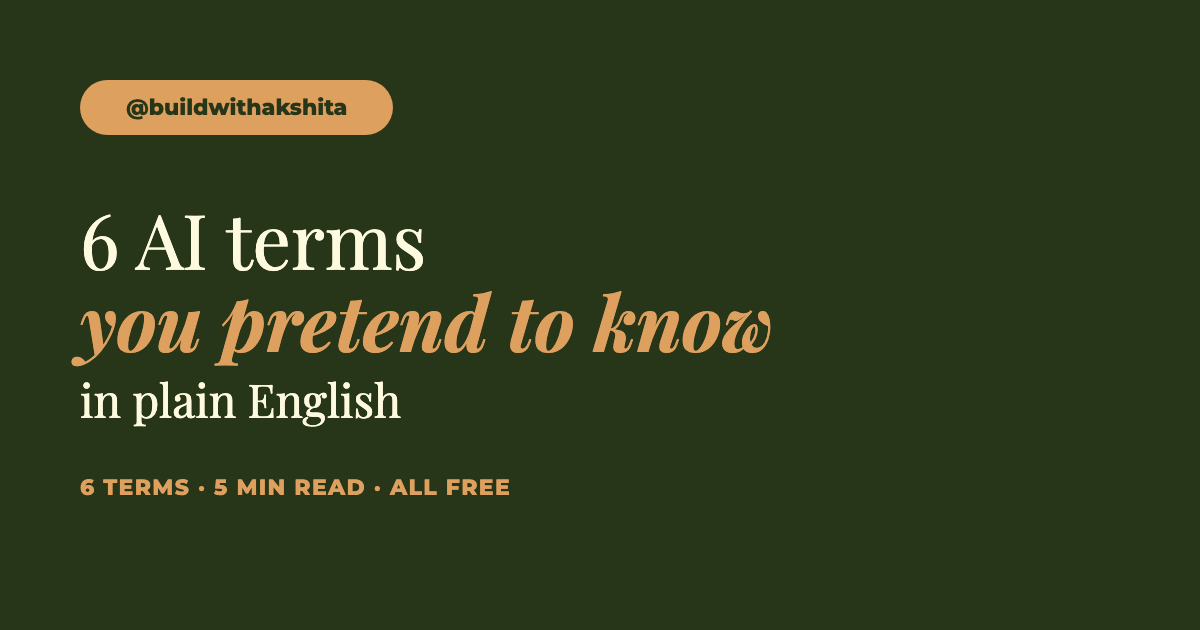
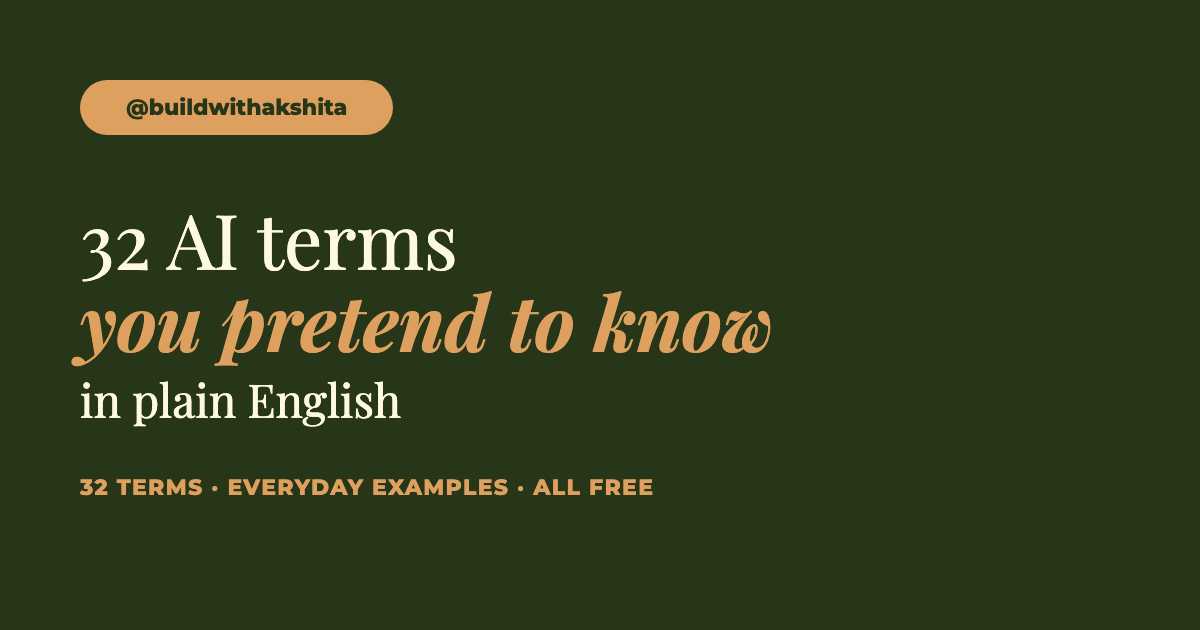
Terms page: expand into a 32-term glossary in 4 sections

Changed region(s): [[0.0617, 0.3317, 0.4008, 0.4524], [0.0617, 0.754, 0.555, 0.7841]]

diff --git a/terms/index.html b/terms/index.html
@@ -3,13 +3,13 @@
 <head>
 <meta charset="utf-8">
 <meta name="viewport" content="width=device-width, initial-scale=1, viewport-fit=cover">
-<title>6 AI terms in plain English — Resources · @buildwithakshita</title>
-<meta name="description" content="Model, parameters, training, inference, embeddings and overfitting, explained in plain English with the developer version of each.">
+<title>AI terms in plain English — Resources · @buildwithakshita</title>
+<meta name="description" content="32 AI terms explained in plain English, from model and training to tokens, RAG, agents and MCP, each with an everyday example.">
 <link rel="canonical" href="https://buildwithakshita.github.io/ml-resources/terms/">
 <meta property="og:type" content="website">
 <meta property="og:url" content="https://buildwithakshita.github.io/ml-resources/terms/">
-<meta property="og:title" content="6 AI terms in plain English">
-<meta property="og:description" content="Model, parameters, training, inference, embeddings and overfitting, explained in plain English with the developer version of each.">
+<meta property="og:title" content="AI terms in plain English">
+<meta property="og:description" content="32 AI terms explained in plain English, from model and training to tokens, RAG, agents and MCP, each with an everyday example.">
 <meta property="og:image" content="https://buildwithakshita.github.io/ml-resources/terms/preview.png">
 <meta property="og:image:width" content="1200">
 <meta property="og:image:height" content="630">
@@ -147,6 +147,10 @@ footer .gh a { color: var(--cream); }
 .vs .r b { color: var(--tan); }
 @media (max-width: 640px) { .vs { grid-template-columns: minmax(0,1fr); } }
 .t-text .ex { margin-top: 10px; padding: 10px 12px; background: var(--cream); border-left: 3px solid var(--tan); border-radius: 0 8px 8px 0; font-size: 13.5px; }
+.jump { position: sticky; top: 0; z-index: 5; display: flex; gap: 8px; overflow-x: auto; padding: 14px 0; margin: 0 0 -24px; background: var(--cream); border-bottom: 1px solid var(--line); scrollbar-width: none; }
+.jump a { flex: none; font-size: 13px; font-weight: 600; text-decoration: none; padding: 7px 14px; border-radius: 999px; border: 1.5px solid var(--forest); }
+.jump a:hover { background: var(--forest); color: var(--cream); }
+[id] { scroll-margin-top: 70px; }
 .t-text .ex b { color: var(--olive); font-size: 11px; letter-spacing: .1em; text-transform: uppercase; display: block; margin-bottom: 2px; }
 </style>
 </head>
@@ -157,17 +161,30 @@ footer .gh a { color: var(--cream); }
       <a class="handle" href="https://www.instagram.com/buildwithakshita/" target="_blank" rel="noopener">@buildwithakshita</a>
       <a class="handle alt" href="https://github.com/buildwithakshita" target="_blank" rel="noopener"><svg width="16" height="16" viewBox="0 0 16 16" aria-hidden="true" fill="currentColor"><path d="M8 0C3.58 0 0 3.58 0 8c0 3.54 2.29 6.53 5.47 7.59.4.07.55-.17.55-.38 0-.19-.01-.82-.01-1.49-2.01.37-2.53-.49-2.69-.94-.09-.23-.48-.94-.82-1.13-.28-.15-.68-.52-.01-.53.63-.01 1.08.58 1.23.82.72 1.21 1.87.87 2.33.66.07-.52.28-.87.51-1.07-1.78-.2-3.64-.89-3.64-3.95 0-.87.31-1.59.82-2.15-.08-.2-.36-1.02.08-2.12 0 0 .67-.21 2.2.82.64-.18 1.32-.27 2-.27.68 0 1.36.09 2 .27 1.53-1.04 2.2-.82 2.2-.82.44 1.1.16 1.92.08 2.12.51.56.82 1.27.82 2.15 0 3.07-1.87 3.75-3.65 3.95.29.25.54.73.54 1.48 0 1.07-.01 1.93-.01 2.2 0 .21.15.46.55.38A8.013 8.013 0 0016 8c0-4.42-3.58-8-8-8z"/></svg> GitHub</a>
     </div>
-    <h1>6 AI terms you<br>pretend to <em>know</em></h1>
-    <p class="lede">The plain-English version of every term from the carousel: Model, Parameters, Training, Inference, Embeddings and Overfitting, each with the developer version and the trap to avoid.</p>
-    <div class="legend"><span>6 terms</span><span>8 min read</span><span>All free</span></div>
+    <h1>AI terms you<br>pretend to <em>know</em></h1>
+    <p class="lede">The plain-English guide to every term from the carousel, plus 26 more you'll hear everywhere. Each one comes with an everyday example, the developer version and the trap to avoid.</p>
+    <div class="legend"><span>32 terms</span><span>4 sections</span><span>All free</span></div>
     <a class="back" href="https://buildwithakshita.github.io/ml-resources/">← All 30 Days to MLE resources</a>
   </div>
 </header>
 <main><div class="wrap">
-<section class="res"><div class="num">01</div><div><div class="kicker">The cheat sheet</div><h2>Six terms, <em>plain English</em></h2><p class="who">What it is, the developer version, and the trap</p><p class="why">These six words show up in every AI conversation. Learn them once and the rest gets much easier.</p><ul class="terms"><li><div class="t-text"><h3>Model<small>the thing that predicts</small></h3><p>A model is a math function that learned its rules from examples instead of someone writing them by hand. You give it an input (an email, a photo, a sentence) and it gives back a prediction (spam or not, cat or dog, the next word). ChatGPT, your spam filter and Netflix recommendations are all models.</p><p class="ex"><b>Everyday example:</b> Your email's spam filter was never told the rule 'free money = spam'. It saw millions of emails labelled spam or not, and worked the patterns out itself.</p><span class="dev">Dev: A function whose logic was learned, not written</span><p class="watch"><b>Watch out:</b> It only knows the patterns in the data it was trained on. Ask about something it never saw and it will still confidently guess.</p></div><div class="t-math"><div class="lbl">In one line</div><div class="eq"><i>ŷ</i> = <i>f</i>(<i>x</i>; <span class="hl">θ</span>)</div></div></li><li><div class="t-text"><h3>Parameters<small>the knobs</small></h3><p>Parameters are the internal numbers inside a model that decide what it outputs. Training is just the process of setting them. A tiny model has a handful; large language models have billions. They're also called weights.</p><p class="ex"><b>Everyday example:</b> Think of a mixing desk with billions of sliders. Each slider barely matters alone, but together their positions decide every answer the model gives.</p><span class="dev">Dev: Config values the program tunes by itself</span><p class="watch"><b>Watch out:</b> More parameters isn't automatically smarter. A smaller model trained on better data often beats a bigger one trained on worse data.</p></div><div class="t-math"><div class="lbl">What they are</div><div class="eq"><span class="hl">θ</span> = [<i>w</i><sub>1</sub>, <i>w</i><sub>2</sub>, …, <i>w</i><sub>n</sub>]</div></div></li><li><div class="t-text"><h3>Training<small>learning from mistakes</small></h3><p>Training is how a model learns. Show it an example, compare its guess to the right answer, measure how wrong it was (the loss), then nudge every parameter a tiny bit in the direction that makes it less wrong. Repeat that millions of times and the guesses get good.</p><p class="ex"><b>Everyday example:</b> Like learning to throw darts: throw, see how far off you landed, adjust your aim a little, throw again. Thousands of throws later you're hitting the board.</p><span class="dev">Dev: An optimisation loop over your dataset</span><p class="watch"><b>Watch out:</b> Garbage in, garbage out. If the training data is biased, messy or wrong, the model learns those mistakes too.</p></div><div class="t-math"><div class="lbl">The loop</div><div class="code">for x, y in data:
+<nav class="jump"><a href="#carousel">From the carousel</a><a href="#learn">How models learn</a><a href="#llms">How LLMs work</a><a href="#build">Building with AI</a><a href="#deeper">Go deeper</a></nav><div id="carousel"></div><section class="res"><div class="num">01</div><div><div class="kicker">From the carousel · 6 terms</div><h2>The six, <em>plain English</em></h2><p class="who">What it is, an everyday example, the developer version, and the trap</p><p class="why">Start here. These six show up in every AI conversation.</p><ul class="terms"><li><div class="t-text"><h3>Model<small>the thing that predicts</small></h3><p>A model is a math function that learned its rules from examples instead of someone writing them by hand. You give it an input (an email, a photo, a sentence) and it gives back a prediction (spam or not, cat or dog, the next word). ChatGPT, your spam filter and Netflix recommendations are all models.</p><p class="ex"><b>Everyday example:</b> Your email's spam filter was never told the rule 'free money = spam'. It saw millions of emails labelled spam or not, and worked the patterns out itself.</p><span class="dev">Dev: A function whose logic was learned, not written</span><p class="watch"><b>Watch out:</b> It only knows the patterns in the data it was trained on. Ask about something it never saw and it will still confidently guess.</p></div><div class="t-math"><div class="lbl">In one line</div><div class="eq"><i>ŷ</i> = <i>f</i>(<i>x</i>; <span class="hl">θ</span>)</div></div></li><li><div class="t-text"><h3>Parameters<small>the knobs</small></h3><p>Parameters are the internal numbers inside a model that decide what it outputs. Training is just the process of setting them. A tiny model has a handful; large language models have billions. They're also called weights.</p><p class="ex"><b>Everyday example:</b> Think of a mixing desk with billions of sliders. Each slider barely matters alone, but together their positions decide every answer the model gives.</p><span class="dev">Dev: Config values the program tunes by itself</span><p class="watch"><b>Watch out:</b> More parameters isn't automatically smarter. A smaller model trained on better data often beats a bigger one trained on worse data.</p></div><div class="t-math"><div class="lbl">What they are</div><div class="eq"><span class="hl">θ</span> = [<i>w</i><sub>1</sub>, <i>w</i><sub>2</sub>, …, <i>w</i><sub>n</sub>]</div></div></li><li><div class="t-text"><h3>Training<small>learning from mistakes</small></h3><p>Training is how a model learns. Show it an example, compare its guess to the right answer, measure how wrong it was (the loss), then nudge every parameter a tiny bit in the direction that makes it less wrong. Repeat that millions of times and the guesses get good.</p><p class="ex"><b>Everyday example:</b> Like learning to throw darts: throw, see how far off you landed, adjust your aim a little, throw again. Thousands of throws later you're hitting the board.</p><span class="dev">Dev: An optimisation loop over your dataset</span><p class="watch"><b>Watch out:</b> Garbage in, garbage out. If the training data is biased, messy or wrong, the model learns those mistakes too.</p></div><div class="t-math"><div class="lbl">The loop</div><div class="code">for x, y in data:
     loss = (model(x) - y) ** 2
     θ -= lr * grad(loss, θ)</div></div></li><li><div class="t-text"><h3>Inference<small>using it</small></h3><p>Inference is running a trained model on new inputs to get an answer. Every time you send ChatGPT a message, that's inference. The parameters are frozen, so the model isn't learning anything from you in that moment.</p><p class="ex"><b>Everyday example:</b> Training is studying for the exam. Inference is sitting the exam: you use what you learned, but you're not learning anything new while you write.</p><span class="dev">Dev: Calling the function in production</span><p class="watch"><b>Watch out:</b> Inference is far cheaper than training, but it isn't free. Every answer still costs compute, which is why AI products have usage limits.</p></div><div class="t-math"><div class="lbl">In code</div><div class="code">answer = model(new_input)
-# θ stays frozen</div></div></li><li><div class="t-text"><h3>Embeddings<small>meaning as numbers</small></h3><p>An embedding turns something (a word, a sentence, an image, a song, a user) into a list of numbers, so a computer can compare meaning with math. Things with similar meaning end up with similar numbers, close together in that space.</p><p class="ex"><b>Everyday example:</b> On Spotify, songs you like sit near each other on a giant invisible map. 'Songs like this' just means 'the nearest points on the map'.</p><span class="dev">Dev: A vector you compare with cosine similarity</span><p class="watch"><b>Watch out:</b> Close means similar to the model, not necessarily true or correct. 'Doctor' and 'nurse' can sit close because they appear in similar sentences, biases included.</p></div><div class="t-math"><div class="lbl">Similarity</div><div class="eq">sim(<i>a</i>, <i>b</i>) = <span class="frac"><span><i>a</i> · <i>b</i></span><span>‖<i>a</i>‖ ‖<i>b</i>‖</span></span></div></div></li><li><div class="t-text"><h3>Overfitting<small>memorising, not learning</small></h3><p>Overfitting is when a model memorises its training data, including the noise and flukes, instead of learning the general pattern. It looks brilliant on the examples it has seen and falls apart on anything new.</p><p class="ex"><b>Everyday example:</b> A student who memorised last year's answer key aces the practice test, then fails the real exam the moment the questions change.</p><span class="dev">Dev: Tests that only pass on your fixtures</span><p class="watch"><b>Watch out:</b> Always check your model on data it never saw during training. A great training score on its own proves nothing.</p></div><div class="t-math"><div class="lbl">The tell</div><div class="eq">train loss <span class="hl">↓</span> &nbsp; test loss <span class="hl">↑</span></div></div></li></ul></div></section><section class="res"><div class="num">02</div><div><div class="kicker">Learn it yourself</div><h2>Go <em>deeper</em></h2><p class="who">Free, self-paced</p><p class="why">3Blue1Brown's neural-network series makes model, parameters and training click visually. The Illustrated Word2vec is the best plain-English intro to embeddings.</p><ul class="facts"><li>Free</li><li>Self-paced</li></ul><div class="links"><a class="btn primary" href="https://www.3blue1brown.com/topics/neural-networks" target="_blank" rel="noopener">Neural networks series <span>3Blue1Brown</span></a><a class="btn primary" href="https://jalammar.github.io/illustrated-word2vec/" target="_blank" rel="noopener">The Illustrated Word2vec <span>Jay Alammar</span></a><a class="btn" href="https://developers.google.com/machine-learning/glossary" target="_blank" rel="noopener">ML Glossary <span>Google</span></a><a class="btn" href="https://developers.google.com/machine-learning/crash-course" target="_blank" rel="noopener">ML Crash Course <span>Google</span></a></div></div></section>
+# θ stays frozen</div></div></li><li><div class="t-text"><h3>Embeddings<small>meaning as numbers</small></h3><p>An embedding turns something (a word, a sentence, an image, a song, a user) into a list of numbers, so a computer can compare meaning with math. Things with similar meaning end up with similar numbers, close together in that space.</p><p class="ex"><b>Everyday example:</b> On Spotify, songs you like sit near each other on a giant invisible map. 'Songs like this' just means 'the nearest points on the map'.</p><span class="dev">Dev: A vector you compare with cosine similarity</span><p class="watch"><b>Watch out:</b> Close means similar to the model, not necessarily true or correct. 'Doctor' and 'nurse' can sit close because they appear in similar sentences, biases included.</p></div><div class="t-math"><div class="lbl">Similarity</div><div class="eq">sim(<i>a</i>, <i>b</i>) = <span class="frac"><span><i>a</i> · <i>b</i></span><span>‖<i>a</i>‖ ‖<i>b</i>‖</span></span></div></div></li><li><div class="t-text"><h3>Overfitting<small>memorising, not learning</small></h3><p>Overfitting is when a model memorises its training data, including the noise and flukes, instead of learning the general pattern. It looks brilliant on the examples it has seen and falls apart on anything new.</p><p class="ex"><b>Everyday example:</b> A student who memorised last year's answer key aces the practice test, then fails the real exam the moment the questions change.</p><span class="dev">Dev: Tests that only pass on your fixtures</span><p class="watch"><b>Watch out:</b> Always check your model on data it never saw during training. A great training score on its own proves nothing.</p></div><div class="t-math"><div class="lbl">The tell</div><div class="eq">train loss <span class="hl">↓</span> &nbsp; test loss <span class="hl">↑</span></div></div></li></ul></div></section><div id="learn"></div><section class="res"><div class="num">02</div><div><div class="kicker">How models learn · 8 terms</div><h2>Under the <em>hood</em></h2><p class="who">What actually happens during training</p><p class="why">The words behind "we trained a model". Read these in order: each one builds on the last.</p><ul class="terms"><li><div class="t-text"><h3>Neural network<small>layers of tiny calculators</small></h3><p>A model built from layers of simple units ("neurons"). Each one takes numbers in, weights them, and passes a result to the next layer. Stack enough layers and the network can learn very complex patterns, like recognising faces or writing text.</p><p class="ex"><b>Everyday example:</b> A relay of people, each making one tiny judgement and passing it on. Nobody sees the whole picture, but together they recognise a cat.</p><span class="dev">Dev: Matrix multiplies with a nonlinearity in between, stacked</span><p class="watch"><b>Watch out:</b> Despite the name, it works very differently from a real brain.</p></div><div class="t-math"><div class="lbl">Two layers</div><div class="code">h = relu(W1 @ x + b1)
+y = W2 @ h + b2</div></div></li><li><div class="t-text"><h3>Dataset splits<small>train · validation · test</small></h3><p>The examples a model learns from get split three ways: a training set to learn from, a validation set to tune your settings, and a test set you only touch at the very end to see how the model really does.</p><p class="ex"><b>Everyday example:</b> Practice questions, mock exams, and the real final. You don't get to see the final before the exam.</p><span class="dev">Dev: Fixtures you never let leak into training</span><p class="watch"><b>Watch out:</b> If test data leaks into training, your score is a lie.</p></div><div class="t-math"><div class="lbl">A common split</div><div class="code">train 80% · val 10% · test 10%</div></div></li><li><div class="t-text"><h3>Loss function<small>a score for how wrong</small></h3><p>A single number that measures how far the model's predictions are from the right answers. The whole goal of training is to make that number smaller.</p><p class="ex"><b>Everyday example:</b> The distance between your dart and the bullseye. Training is learning to shrink it.</p><span class="dev">Dev: The metric your optimiser minimises</span><p class="watch"><b>Watch out:</b> The model optimises exactly what the loss measures, which isn't always what you actually care about.</p></div><div class="t-math"><div class="lbl">Mean squared error</div><div class="eq"><i>L</i> = <span class="frac"><span>1</span><span><i>n</i></span></span> Σ (<i>y</i> − <span class="hl"><i>ŷ</i></span>)<sup>2</sup></div></div></li><li><div class="t-text"><h3>Gradient descent<small>walking downhill</small></h3><p>The method for reducing the loss: work out which direction makes the error drop fastest (the gradient), take a small step that way, and repeat, thousands of times.</p><p class="ex"><b>Everyday example:</b> Finding the bottom of a valley in thick fog by always stepping in whichever direction slopes down.</p><span class="dev">Dev: Iteratively updating parameters against the gradient</span><p class="watch"><b>Watch out:</b> It can settle in a dip that isn't the lowest point.</p></div><div class="t-math"><div class="lbl">One step</div><div class="eq"><i>θ</i> ← <i>θ</i> − <span class="hl"><i>η</i></span> ∇<i>L</i></div></div></li><li><div class="t-text"><h3>Learning rate<small>the step size</small></h3><p>How big each gradient descent step is. Too big and training overshoots and bounces around; too small and it takes forever to get anywhere.</p><p class="ex"><b>Everyday example:</b> Big strides down a hill can jump straight past the bottom. Tiny shuffles get there, eventually.</p><span class="dev">Dev: The η hyperparameter</span><p class="watch"><b>Watch out:</b> A badly chosen learning rate is one of the most common reasons training fails.</p></div><div class="t-math"><div class="lbl">Default in PyTorch's Adam</div><div class="code">optim.Adam(params, lr=0.001)</div></div></li><li><div class="t-text"><h3>Backpropagation<small>assigning the blame</small></h3><p>The algorithm that works out how much each parameter contributed to the error, by passing the error backwards through the network, layer by layer. Gradient descent then uses those numbers to update every parameter.</p><p class="ex"><b>Everyday example:</b> After a team loses, replaying the game to see which plays caused it, so every player knows exactly what to fix.</p><span class="dev">Dev: Automatic differentiation via the chain rule</span><p class="watch"><b>Watch out:</b> You almost never write it yourself. In PyTorch it's one line: loss.backward().</p></div><div class="t-math"><div class="lbl">In PyTorch</div><div class="code">loss.backward()   # backprop
+optimizer.step()  # update θ</div></div></li><li><div class="t-text"><h3>Epoch<small>one full pass</small></h3><p>One complete pass through the whole training dataset. Models usually train for several epochs, seeing every example multiple times.</p><p class="ex"><b>Everyday example:</b> Reading your whole textbook once, cover to cover. Revising for an exam usually takes a few reads.</p><span class="dev">Dev: One iteration of the outer training loop</span><p class="watch"><b>Watch out:</b> Too many epochs is a classic route to overfitting.</p></div><div class="t-math"><div class="lbl">In code</div><div class="code">for epoch in range(10):
+    for batch in data:
+        train_step(batch)</div></div></li><li><div class="t-text"><h3>Hyperparameters<small>settings you choose</small></h3><p>The settings you pick before training starts (learning rate, number of layers, epochs, batch size), as opposed to parameters, which the model learns on its own.</p><p class="ex"><b>Everyday example:</b> Oven temperature and baking time are yours to set. How the cake rises is up to the cake.</p><span class="dev">Dev: Config you tune on the validation set</span><p class="watch"><b>Watch out:</b> Tune them on the validation set, never on the test set.</p></div><div class="t-math"><div class="lbl">Example</div><div class="code">lr=1e-3, epochs=10,
+batch_size=32, layers=4</div></div></li></ul></div></section><div id="llms"></div><section class="res"><div class="num">03</div><div><div class="kicker">How LLMs work · 8 terms</div><h2>Inside <em>ChatGPT</em></h2><p class="who">The vocabulary of chatbots</p><p class="why">Everything that happens between you hitting send and the reply appearing.</p><ul class="terms"><li><div class="t-text"><h3>LLM<small>large language model</small></h3><p>A huge neural network trained on enormous amounts of text to do one job: predict the next token. ChatGPT, Claude and Gemini are LLMs with a chat interface on top.</p><p class="ex"><b>Everyday example:</b> Your phone keyboard suggesting the next word, scaled up enormously.</p><span class="dev">Dev: A function from text to odds for what comes next</span><p class="watch"><b>Watch out:</b> It predicts what's likely, not what's true.</p></div><div class="t-math"><div class="lbl">The job</div><div class="eq">text → <span class="hl">next token</span></div></div></li><li><div class="t-text"><h3>Token<small>how models read text</small></h3><p>LLMs don't read words, they read tokens. Common words are a single token, rarer words get split into pieces, and every token is turned into a number.</p><p class="ex"><b>Everyday example:</b> Reading a word you don't know by sounding out its pieces.</p><span class="dev">Dev: Like an enum: every chunk of text has an ID</span><p class="watch"><b>Watch out:</b> Pricing and limits are counted in tokens, not words. In English, a token is roughly three-quarters of a word.</p></div><div class="t-math"><div class="lbl">Example (illustrative)</div><div class="code">"unbelievable!"
+→ [un][believ][able][!]</div></div></li><li><div class="t-text"><h3>Context window<small>the model's working memory</small></h3><p>The maximum amount of text, measured in tokens, a model can look at in one go: your prompt, the conversation so far, any documents you paste in, and its own reply.</p><p class="ex"><b>Everyday example:</b> A desk that's only so big. Once it's full, the oldest papers start falling off the edge.</p><span class="dev">Dev: The max input length the function accepts</span><p class="watch"><b>Watch out:</b> Models can be worse at using details buried in the middle of very long inputs.</p></div><div class="t-math"><div class="lbl">The limit</div><div class="eq">prompt + history + reply ≤ <span class="hl"><i>N</i></span> tokens</div></div></li><li><div class="t-text"><h3>Prompt<small>what you send the model</small></h3><p>Everything the model receives: your question plus any instructions, examples or documents. A system prompt is the hidden set of instructions an app adds before your message.</p><p class="ex"><b>Everyday example:</b> Briefing a new colleague. "Write an email" gets you something generic; who it's for, why and how long gets you what you need.</p><span class="dev">Dev: The function's arguments</span><p class="watch"><b>Watch out:</b> The model can't read your mind. Missing context is the number one cause of bad answers.</p></div><div class="t-math"><div class="lbl">What the model sees</div><div class="code">[system] You are a helpful tutor.
+User: explain overfitting simply</div></div></li><li><div class="t-text"><h3>Hallucination<small>confident nonsense</small></h3><p>When a model states something false as if it were fact, like a citation that doesn't exist or a made-up number. It happens because the model generates likely-sounding text, not verified facts.</p><p class="ex"><b>Everyday example:</b> A student bluffing an exam answer with total confidence.</p><span class="dev">Dev: Plausible output with no grounding</span><p class="watch"><b>Watch out:</b> Always check names, numbers and sources. RAG reduces hallucinations but doesn't remove them.</p></div><div class="t-math"><div class="lbl">Why it happens</div><div class="eq">likely <span class="hl">≠</span> true</div></div></li><li><div class="t-text"><h3>Temperature<small>the randomness dial</small></h3><p>A setting that controls how random the model's word choices are. Low temperature gives safe, predictable answers; high temperature gives more varied, creative and sometimes stranger ones.</p><p class="ex"><b>Everyday example:</b> Ordering your usual at a restaurant (low) versus trying something new on the menu (high).</p><span class="dev">Dev: A divisor on the scores before sampling</span><p class="watch"><b>Watch out:</b> Higher temperature doesn't make a model smarter, only more varied.</p></div><div class="t-math"><div class="lbl">With temperature T</div><div class="eq"><i>p</i><sub><i>i</i></sub> = <span class="frac"><span><i>e</i><sup><i>z</i><sub><i>i</i></sub>/<span class="hl">T</span></sup></span><span>Σ<sub><i>j</i></sub> <i>e</i><sup><i>z</i><sub><i>j</i></sub>/<span class="hl">T</span></sup></span></span></div></div></li><li><div class="t-text"><h3>Transformer<small>the design behind LLMs</small></h3><p>The neural network design behind almost every modern LLM: the T in GPT. Introduced in 2017 in the paper "Attention Is All You Need", its key idea is attention.</p><p class="ex"><b>Everyday example:</b> Reading a whole paragraph at once, instead of one word at a time through a straw.</p><span class="dev">Dev: Stacked blocks of attention + feed-forward layers</span><p class="watch"><b>Watch out:</b> It's an architecture, not a product. GPT, Claude, Gemini and Llama are all built on it.</p></div><div class="t-math"><div class="lbl">Introduced</div><div class="eq">2017 · <i>"Attention Is All You Need"</i></div></div></li><li><div class="t-text"><h3>Attention<small>what to focus on</small></h3><p>The mechanism that lets a model weigh which other words matter for the one it's processing. In "the animal didn't cross the street because it was tired", attention helps link "it" to "animal".</p><p class="ex"><b>Everyday example:</b> At a noisy party, tuning in to the one voice that matters right now.</p><span class="dev">Dev: A weighted average where the weights come from the data</span><p class="watch"><b>Watch out:</b> Its cost grows with the square of the input length, one reason long inputs are expensive.</p></div><div class="t-math"><div class="lbl">Scaled dot-product attention</div><div class="eq">softmax(<span class="frac"><span><i>QK</i><sup>T</sup></span><span>√<i>d</i></span></span>)<i>V</i></div></div></li></ul></div></section><div id="build"></div><section class="res"><div class="num">04</div><div><div class="kicker">Building with AI · 10 terms</div><h2>What engineers <em>build</em></h2><p class="who">The words you'll hear in AI engineering jobs</p><p class="why">The techniques behind real AI products, from search over your documents to agents that take actions.</p><ul class="terms"><li><div class="t-text"><h3>RAG<small>retrieval-augmented generation</small></h3><p>Before answering, the system searches your documents for relevant passages and pastes them into the prompt, so the model answers from real sources instead of from memory.</p><p class="ex"><b>Everyday example:</b> An open-book exam instead of a closed-book one.</p><span class="dev">Dev: Search + prompt templating before the LLM call</span><p class="watch"><b>Watch out:</b> If retrieval finds the wrong passages, the answer will be wrong, and confidently so.</p></div><div class="t-math"><div class="lbl">The idea</div><div class="code">docs = search(question)
+answer = llm(question + docs)</div></div></li><li><div class="t-text"><h3>Vector database<small>search by meaning</small></h3><p>A database that stores embeddings and quickly finds the ones closest to a query, so you can search by meaning instead of exact keywords. It's the usual engine behind RAG.</p><p class="ex"><b>Everyday example:</b> Asking a librarian for "books like this one" instead of searching by exact title.</p><span class="dev">Dev: Nearest-neighbour search over vectors</span><p class="watch"><b>Watch out:</b> For small projects you often don't need one: a plain list and NumPy is enough.</p></div><div class="t-math"><div class="lbl">A query</div><div class="code">index.query(embed("cheap flights"),
+            top_k=5)</div></div></li><li><div class="t-text"><h3>Fine-tuning<small>specialising a model</small></h3><p>Taking a model that's already trained and training it a bit more on your own smaller dataset, so it gets better at your task, tone or domain.</p><p class="ex"><b>Everyday example:</b> A general doctor doing a specialisation: same training underneath, new expertise on top.</p><span class="dev">Dev: Continued training from pretrained weights</span><p class="watch"><b>Watch out:</b> Try good prompting and RAG first. Fine-tuning is slower and costlier to get right.</p></div><div class="t-math"><div class="lbl">The idea</div><div class="code">model = load("base-model")
+train(model, my_examples)</div></div></li><li><div class="t-text"><h3>LoRA<small>cheap fine-tuning</small></h3><p>Low-Rank Adaptation: instead of changing all of a model's billions of parameters, you freeze them and train a small set of extra ones on top. Far cheaper, and often doable on a single GPU.</p><p class="ex"><b>Everyday example:</b> Clip-on lenses for your glasses instead of a whole new pair.</p><span class="dev">Dev: Train a small low-rank add-on, freeze the rest</span><p class="watch"><b>Watch out:</b> It's usually better for style and format than for teaching a model lots of new facts.</p></div><div class="t-math"><div class="lbl">The update</div><div class="eq"><i>W</i>′ = <i>W</i> + <span class="hl"><i>BA</i></span> &nbsp;(<i>B</i>, <i>A</i> small)</div></div></li><li><div class="t-text"><h3>Agent<small>AI that takes actions</small></h3><p>An LLM running in a loop that can use tools (search the web, run code, call APIs), check the results, and decide what to do next until the task is done, instead of replying once.</p><p class="ex"><b>Everyday example:</b> Asking someone to actually book your trip, versus asking them for travel tips.</p><span class="dev">Dev: A while loop: think → call a tool → read the result</span><p class="watch"><b>Watch out:</b> More autonomy means more ways to go wrong. Log every step.</p></div><div class="t-math"><div class="lbl">The loop</div><div class="code">while not done:
+    action = llm(state)
+    state += run_tool(action)</div></div></li><li><div class="t-text"><h3>MCP<small>Model Context Protocol</small></h3><p>An open standard, introduced by Anthropic in 2024, for connecting AI apps to tools and data. Build a tool once as an MCP server, and any app that supports MCP can use it.</p><p class="ex"><b>Everyday example:</b> USB-C for AI: one plug that works across many devices.</p><span class="dev">Dev: A client-server protocol (JSON-RPC) for tools and data</span><p class="watch"><b>Watch out:</b> It only reaches tools that have an MCP server.</p></div><div class="t-math"><div class="lbl">The shape</div><div class="eq">AI app ⇄ <span class="hl">MCP</span> ⇄ tools</div></div></li><li><div class="t-text"><h3>RLHF<small>learning from human feedback</small></h3><p>Reinforcement learning from human feedback: people compare the model's answers, and the model is tuned toward the kind of answers people prefer. It's a big part of why chatbots feel helpful rather than like raw text predictors.</p><p class="ex"><b>Everyday example:</b> A trainee getting thumbs up or down from a manager until they learn what "good" looks like.</p><span class="dev">Dev: Train a reward model on preferences, then optimise against it</span><p class="watch"><b>Watch out:</b> It can make models overly agreeable, telling people what they want to hear.</p></div><div class="t-math"><div class="lbl">The signal</div><div class="eq">answer A <span class="hl">≻</span> answer B</div></div></li><li><div class="t-text"><h3>Quantization<small>shrinking a model</small></h3><p>Storing a model's numbers with less precision (say 4 bits instead of 16) so it uses far less memory and runs faster, often well enough for a laptop, with a small hit to quality.</p><p class="ex"><b>Everyday example:</b> Compressing a photo: a much smaller file that looks almost the same.</p><span class="dev">Dev: float16 → int4</span><p class="watch"><b>Watch out:</b> Push it too far and quality drops noticeably.</p></div><div class="t-math"><div class="lbl">Memory</div><div class="eq">16-bit → 4-bit = <span class="hl">¼</span> the memory</div></div></li><li><div class="t-text"><h3>Evals<small>testing AI</small></h3><p>Sets of test questions with known good answers, or scoring rules, used to measure how well a model or AI app performs and to catch it getting worse after a change.</p><p class="ex"><b>Everyday example:</b> A driving test you rerun every time you change something about the car.</p><span class="dev">Dev: A test suite for non-deterministic outputs</span><p class="watch"><b>Watch out:</b> A high score on a public benchmark doesn't guarantee it will do well on your task.</p></div><div class="t-math"><div class="lbl">In code</div><div class="code">score = mean(grade(model(q), a)
+            for q, a in tests)</div></div></li><li><div class="t-text"><h3>Multimodal<small>more than text</small></h3><p>A model that can take in or produce more than one kind of data: text, images, audio or video. Uploading a photo and asking a question about it uses a multimodal model.</p><p class="ex"><b>Everyday example:</b> Someone who can read, look and listen, not just read.</p><span class="dev">Dev: Several input encoders feeding one model</span><p class="watch"><b>Watch out:</b> It can still hallucinate, for example by confidently misreading a chart.</p></div><div class="t-math"><div class="lbl">The idea</div><div class="eq">text + image → <span class="hl">text</span></div></div></li></ul></div></section><div id="deeper"></div><section class="res"><div class="num">05</div><div><div class="kicker">Learn it yourself</div><h2>Go <em>deeper</em></h2><p class="who">Free, self-paced</p><p class="why">3Blue1Brown's neural-network series makes training click visually. The Illustrated Word2vec is the best plain-English intro to embeddings, and Google's glossary covers almost every other term you'll meet.</p><ul class="facts"><li>Free</li><li>Self-paced</li></ul><div class="links"><a class="btn primary" href="https://www.3blue1brown.com/topics/neural-networks" target="_blank" rel="noopener">Neural networks series <span>3Blue1Brown</span></a><a class="btn primary" href="https://jalammar.github.io/illustrated-word2vec/" target="_blank" rel="noopener">The Illustrated Word2vec <span>Jay Alammar</span></a><a class="btn" href="https://developers.google.com/machine-learning/glossary" target="_blank" rel="noopener">ML Glossary <span>Google</span></a><a class="btn" href="https://developers.google.com/machine-learning/crash-course" target="_blank" rel="noopener">ML Crash Course <span>Google</span></a></div></div></section>
 </div></main>
 <footer>
   <div class="wrap">

diff --git a/build/index.html b/build/index.html
@@ -147,6 +147,10 @@ footer .gh a { color: var(--cream); }
 .vs .r b { color: var(--tan); }
 @media (max-width: 640px) { .vs { grid-template-columns: minmax(0,1fr); } }
 .t-text .ex { margin-top: 10px; padding: 10px 12px; background: var(--cream); border-left: 3px solid var(--tan); border-radius: 0 8px 8px 0; font-size: 13.5px; }
+.jump { position: sticky; top: 0; z-index: 5; display: flex; gap: 8px; overflow-x: auto; padding: 14px 0; margin: 0 0 -24px; background: var(--cream); border-bottom: 1px solid var(--line); scrollbar-width: none; }
+.jump a { flex: none; font-size: 13px; font-weight: 600; text-decoration: none; padding: 7px 14px; border-radius: 999px; border: 1.5px solid var(--forest); }
+.jump a:hover { background: var(--forest); color: var(--cream); }
+[id] { scroll-margin-top: 70px; }
 .t-text .ex b { color: var(--olive); font-size: 11px; letter-spacing: .1em; text-transform: uppercase; display: block; margin-bottom: 2px; }
 </style>
 </head>

diff --git a/free-repos/index.html b/free-repos/index.html
@@ -147,6 +147,10 @@ footer .gh a { color: var(--cream); }
 .vs .r b { color: var(--tan); }
 @media (max-width: 640px) { .vs { grid-template-columns: minmax(0,1fr); } }
 .t-text .ex { margin-top: 10px; padding: 10px 12px; background: var(--cream); border-left: 3px solid var(--tan); border-radius: 0 8px 8px 0; font-size: 13.5px; }
+.jump { position: sticky; top: 0; z-index: 5; display: flex; gap: 8px; overflow-x: auto; padding: 14px 0; margin: 0 0 -24px; background: var(--cream); border-bottom: 1px solid var(--line); scrollbar-width: none; }
+.jump a { flex: none; font-size: 13px; font-weight: 600; text-decoration: none; padding: 7px 14px; border-radius: 999px; border: 1.5px solid var(--forest); }
+.jump a:hover { background: var(--forest); color: var(--cream); }
+[id] { scroll-margin-top: 70px; }
 .t-text .ex b { color: var(--olive); font-size: 11px; letter-spacing: .1em; text-transform: uppercase; display: block; margin-bottom: 2px; }
 </style>
 </head>

diff --git a/math/index.html b/math/index.html
@@ -147,6 +147,10 @@ footer .gh a { color: var(--cream); }
 .vs .r b { color: var(--tan); }
 @media (max-width: 640px) { .vs { grid-template-columns: minmax(0,1fr); } }
 .t-text .ex { margin-top: 10px; padding: 10px 12px; background: var(--cream); border-left: 3px solid var(--tan); border-radius: 0 8px 8px 0; font-size: 13.5px; }
+.jump { position: sticky; top: 0; z-index: 5; display: flex; gap: 8px; overflow-x: auto; padding: 14px 0; margin: 0 0 -24px; background: var(--cream); border-bottom: 1px solid var(--line); scrollbar-width: none; }
+.jump a { flex: none; font-size: 13px; font-weight: 600; text-decoration: none; padding: 7px 14px; border-radius: 999px; border: 1.5px solid var(--forest); }
+.jump a:hover { background: var(--forest); color: var(--cream); }
+[id] { scroll-margin-top: 70px; }
 .t-text .ex b { color: var(--olive); font-size: 11px; letter-spacing: .1em; text-transform: uppercase; display: block; margin-bottom: 2px; }
 </style>
 </head>

diff --git a/notebooks/index.html b/notebooks/index.html
@@ -147,6 +147,10 @@ footer .gh a { color: var(--cream); }
 .vs .r b { color: var(--tan); }
 @media (max-width: 640px) { .vs { grid-template-columns: minmax(0,1fr); } }
 .t-text .ex { margin-top: 10px; padding: 10px 12px; background: var(--cream); border-left: 3px solid var(--tan); border-radius: 0 8px 8px 0; font-size: 13.5px; }
+.jump { position: sticky; top: 0; z-index: 5; display: flex; gap: 8px; overflow-x: auto; padding: 14px 0; margin: 0 0 -24px; background: var(--cream); border-bottom: 1px solid var(--line); scrollbar-width: none; }
+.jump a { flex: none; font-size: 13px; font-weight: 600; text-decoration: none; padding: 7px 14px; border-radius: 999px; border: 1.5px solid var(--forest); }
+.jump a:hover { background: var(--forest); color: var(--cream); }
+[id] { scroll-margin-top: 70px; }
 .t-text .ex b { color: var(--olive); font-size: 11px; letter-spacing: .1em; text-transform: uppercase; display: block; margin-bottom: 2px; }
 </style>
 </head>

diff --git a/watch/index.html b/watch/index.html
@@ -147,6 +147,10 @@ footer .gh a { color: var(--cream); }
 .vs .r b { color: var(--tan); }
 @media (max-width: 640px) { .vs { grid-template-columns: minmax(0,1fr); } }
 .t-text .ex { margin-top: 10px; padding: 10px 12px; background: var(--cream); border-left: 3px solid var(--tan); border-radius: 0 8px 8px 0; font-size: 13.5px; }
+.jump { position: sticky; top: 0; z-index: 5; display: flex; gap: 8px; overflow-x: auto; padding: 14px 0; margin: 0 0 -24px; background: var(--cream); border-bottom: 1px solid var(--line); scrollbar-width: none; }
+.jump a { flex: none; font-size: 13px; font-weight: 600; text-decoration: none; padding: 7px 14px; border-radius: 999px; border: 1.5px solid var(--forest); }
+.jump a:hover { background: var(--forest); color: var(--cream); }
+[id] { scroll-margin-top: 70px; }
 .t-text .ex b { color: var(--olive); font-size: 11px; letter-spacing: .1em; text-transform: uppercase; display: block; margin-bottom: 2px; }
 </style>
 </head>
